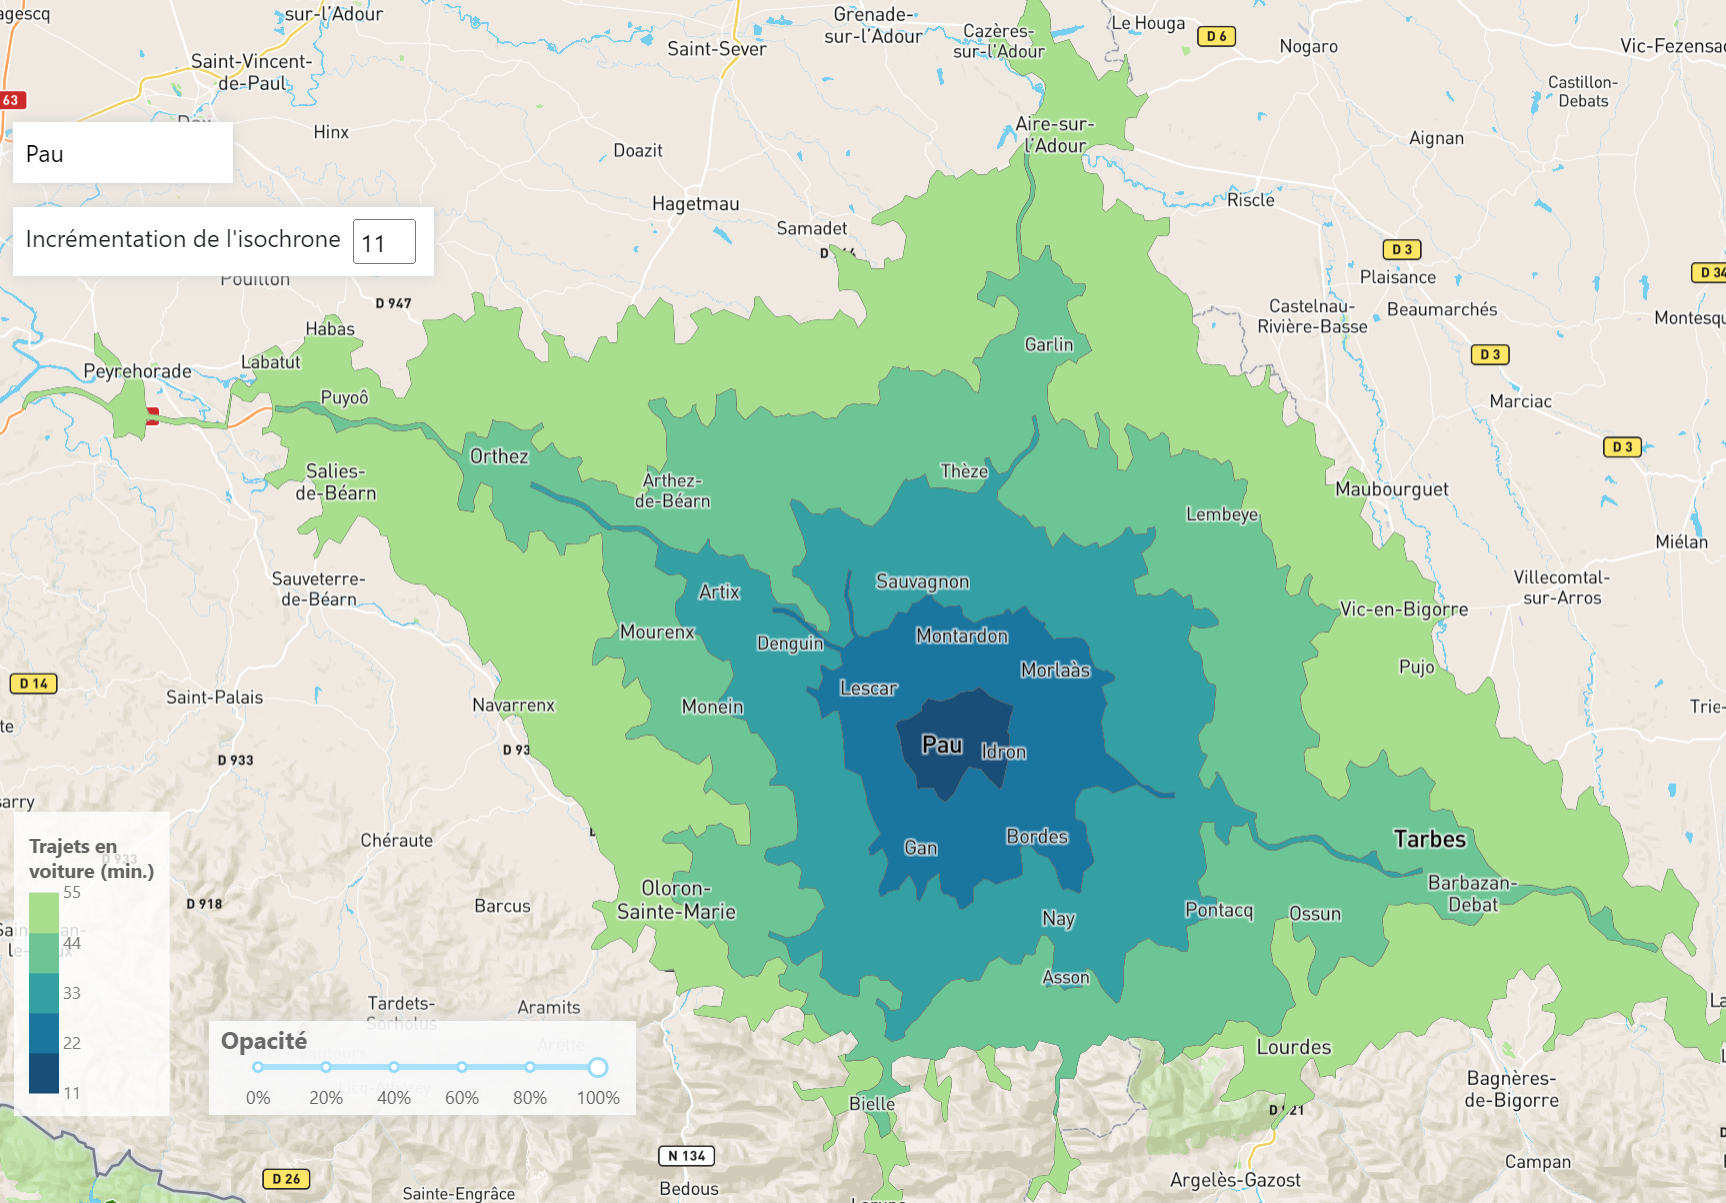
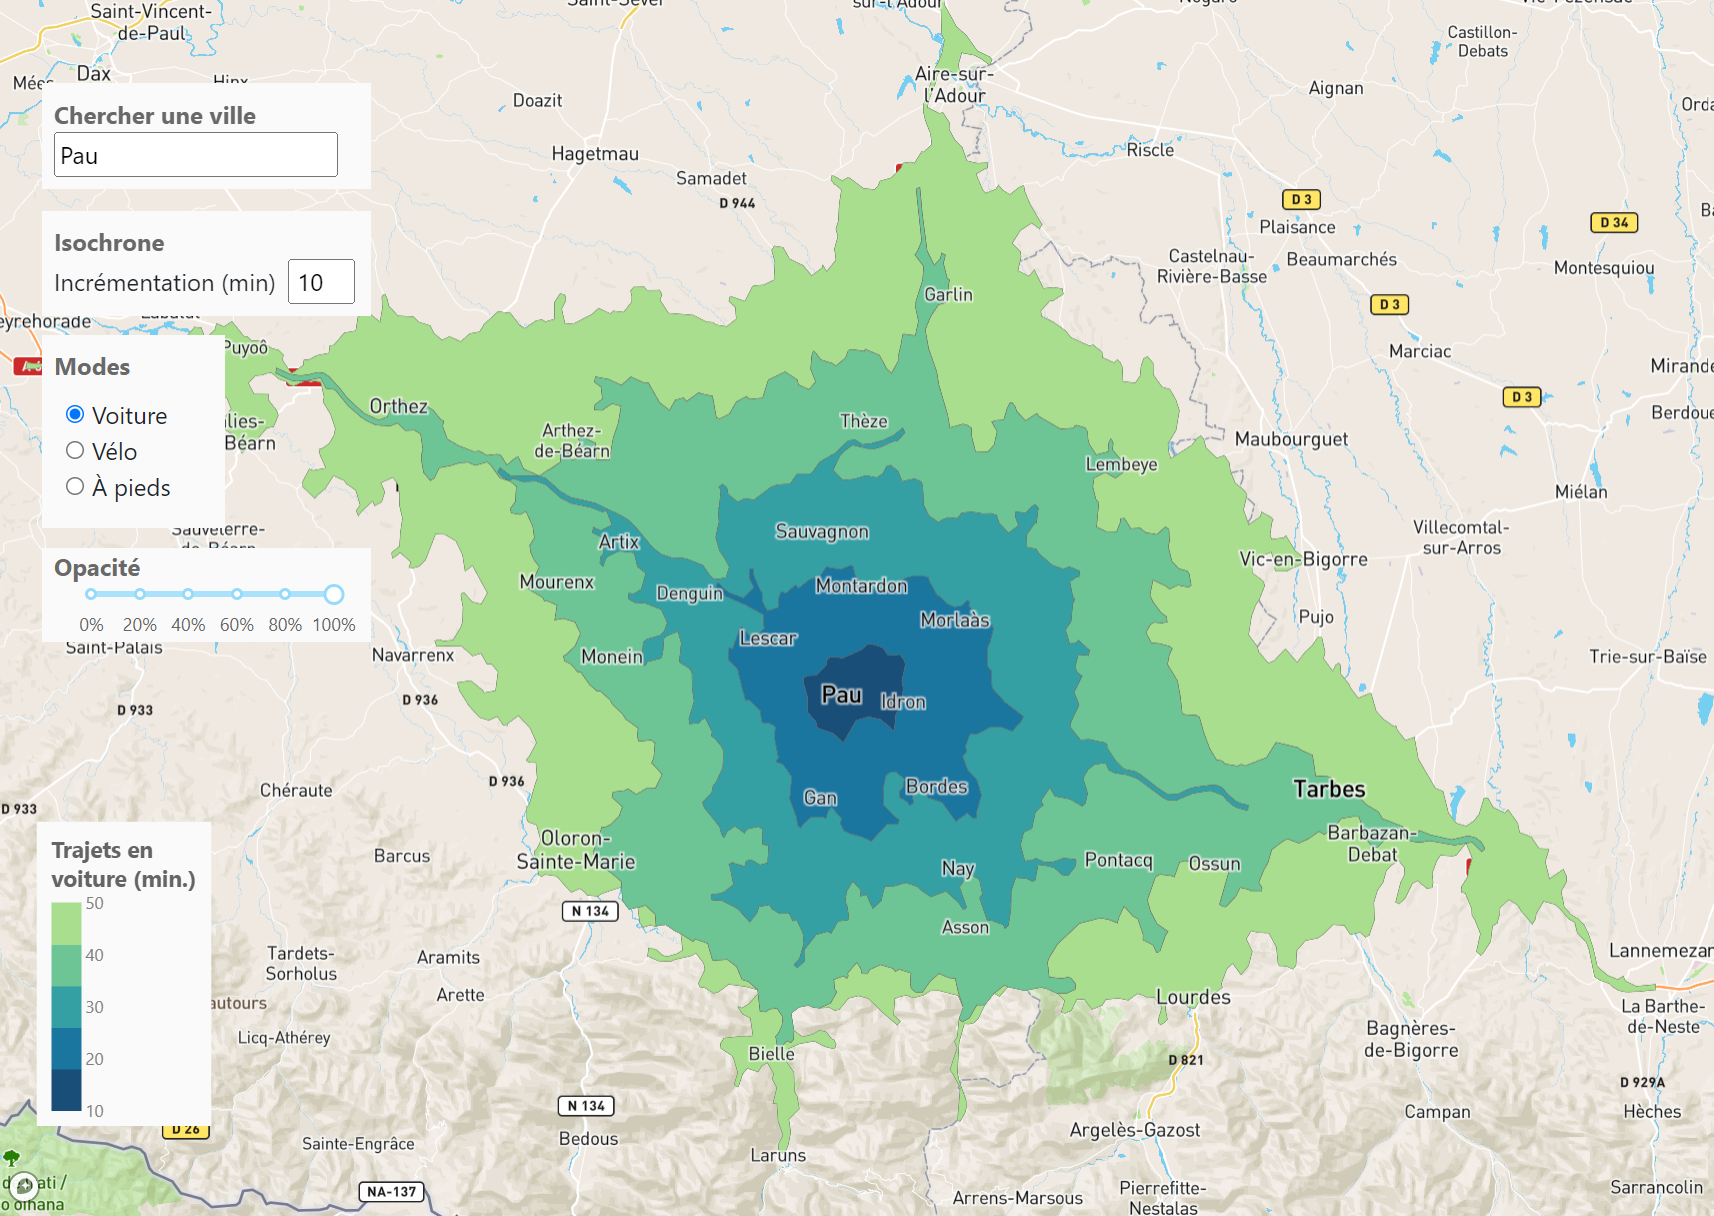
api+code

diff --git a/isoc.html b/isoc.html
@@ -130,52 +130,90 @@ from dash.dependencies import Input, Output
 app = dash.Dash(__name__, external_stylesheets=[dbc.themes.BOOTSTRAP,])
 server = app.server
 config = {"displayModeBar": False}
-loading_style = {'position': 'absolute', 'align-self': 'center'}
+loading_style = {'position': 'relative',"margin-left":"auto","margin-right":"auto","top":"50vh","z-index":"999"}
 
 app.layout = html.Div(
-    [
-dcc.Input(
+    [html.Div([dcc.Loading(
+                    id="loading",
+                    type="default",
+        parent_style=loading_style,
+                ),html.Div([html.Label("Chercher une ville", style={"font-weight":"bold","color": "dimgrey","width":"20vh"}
+                ),
+        dcc.Input(
             id="input1",
             type="text",
-            placeholder="Chercher une ville",
             value="Pau",
             debounce=True,
-            style={
+
+        )],style={
                 "border": "0px solid rgba(255,255,255,1)",
-                "filter": "drop-shadow(0 0 5px rgb(190, 190,190))",
                 "background-color": "rgba(250,250,250,1)",
                 "z-index": "999",
-                "width": "18vh",
+                "width": "27vh",
                 "position": "relative",
                 "top": "7vh",
-                "left": "12vh",
-                "padding":"1vh"
+                "left": "4vh",
+                "padding": "1vh",
+            },),
+        html.Div(
+            [
+                html.Label(
+                    "Modes", style={"padding-right": "1vh","font-weight":"bold","color": "dimgrey"}
+                ),
+                dcc.RadioItems(
+                    id="input-radio-button",
+                    options=[
+                        {"label": " Voiture", "value": "driving-car"},
+                        {"label": " Vélo", "value": "cycling-regular"},
+                        {"label": " À pieds", "value": "foot-walking"},
+                    ],
+                    style={"padding": "1vh",},
+                    value="driving-car",
+                ),
+            ],
+            style={
+                "position": "relative",
+                "z-index": "999",
+                "background-color": "rgba(250,250,250,1)",
+                "top": "19vh",
+                "padding": "1vh",
+                "width": "15vh",
+                "left": "4vh",
             },
         ),
-        html.Div([html.Label("Incrémentation de l'isochrone",style={"padding-right":"1vh"}),dcc.Input(
-            id="inc",
-            type="number",
-            min=2,
-            max=11,
-            value=10,
-            debounce=True,
-            style={"width":"5.5vh","text-align":"center"}
-        ),
-        ],            style={
+        html.Div(
+            [html.Label("Isochrone",style={"padding-right": "1vh","font-weight":"bold","color": "dimgrey"}),html.Br(),
+                html.Label("Incrémentation (min)"),
+                dcc.Input(
+                    id="inc",
+                    type="number",
+                    min=2,
+                    max=11,
+                    value=10,
+                    debounce=True,
+                    style={
+                        "width": "5.5vh",
+                        "text-align": "center",
+                        "margin-left": "1vh",
+                    },
+                ),
+            ],
+            style={
                 "border": "0px solid rgba(255,255,255,1)",
-                "filter": "drop-shadow(0 0 5px rgb(190, 190,190))",
                 "background-color": "rgba(250,250,250,1)",
                 "z-index": "999",
-                "width": "34.5vh",
+                "width": "27vh",
                 "position": "relative",
-                "top": "9vh",
-                "left": "12vh",
-                "padding":"1vh",
-                "display":"flex"
-            }
+                "top": "-7vh",
+                "left": "4vh",
+                "padding": "1vh",
+            },
         ),
         html.Div(
-            [html.Label("Opacité",style={"font-weight":"bold","color":"dimgrey"}),
+            [
+                html.Label(
+                    "Opacité", style={"font-weight": "bold", "color": "dimgrey"}
+                ),
                 dcc.Slider(
                     value=1,
                     step=0.2,
@@ -190,31 +228,34 @@ dcc.Input(
                         1: "100%",
                     },
                     id="op",
-                )
+                ),
             ],
             style={
                 "z-index": "999",
                 "position": "relative",
-                "top": "74vh",
-                "width": "35vh",
-                "left": "28vh",
+                "top": "12vh",
+                "width": "27vh",
+                "left": "4vh",
                 "background-color": "rgba(250,250,250,1)",
-                "filter": "drop-shadow(0 0 9px rgb(190, 190,190))",
                 "padding-left": "1vh",
-                
             },
-        ),html.Div([
-        dcc.Graph(
-            id="our_graph",
-            style={
-                "width": "100%",
-                "height": "100vh",
-                "position": "absolute",
-                "top": "0",
-                "left": "0",
-            },
-            config=config,
-        ),dcc.Loading(id='loading',type="default",style= {'position': 'relative', "left":"88.5vh","top":"31.5vh"},parent_style=loading_style)]),
+        )]),
+        html.Div(
+            [
+                dcc.Graph(
+                    id="our_graph",
+                    style={
+                        "width": "100%",
+                        "height": "100vh",
+                        "position": "absolute",
+                        "top": "0",
+                        "left": "0",
+                    },
+                    config=config,
+                ),
+
+            ]
+        ),
     ]
 )
 
@@ -226,10 +267,11 @@ dcc.Input(
         Input(component_id="input1", component_property="value"),
         Input(component_id="op", component_property="value"),
         Input(component_id="inc", component_property="value"),
+        Input(component_id="input-radio-button", component_property="value"),
     ],
 )
 
-def iso(input1,op,inc):
+def iso(input1,op,inc,mode):
         new_loading_style = loading_style
         nom = input1
         geolocator = Nominatim(user_agent="myapplication")
@@ -248,7 +290,7 @@ def iso(input1,op,inc):
         'Authorization': '5b3ce3597851110001cf6248df22650771d94c06a73d6fb78ba4706b',
         'Content-Type': 'application/json; charset=utf-8'
         }
-        call = requests.post('https://api.openrouteservice.org/v2/isochrones/driving-car', json=body, headers=headers)
+        call = requests.post(f'https://api.openrouteservice.org/v2/isochrones/{mode}', json=body, headers=headers)
         call = call.json()
         gdf = gpd.GeoDataFrame.from_features(call["features"])
 
@@ -311,13 +353,13 @@ def iso(input1,op,inc):
             hoverinfo="none",
             colorbar_thickness=20,
             colorbar_y=0.2,
-            colorbar_x=0.068,
+            colorbar_x=0.02,
             colorbar_outlinewidth=0,
-            colorbar_bgcolor="rgba(255,255,255,0.8)",
+            colorbar_bgcolor="rgba(250,250,250,1)",
             colorbar_tickfont=dict(family=family, size=11, color="gray"),
             colorbar_title_side="top",
             colorbar_title_text="<b>Trajets en<br>voiture (min.)",
-            colorbar_title_font=dict(family=family, color="rgb(100,100,100)", size=13),
+            colorbar_title_font=dict(family=family, color="rgb(100,100,100)", size=15),
         )
         fig.update_layout(legend_itemdoubleclick=False)
         fig.update_layout(margin={"r": 0, "l": 0, "b": 0, "t": 0})

diff --git a/assets/css/mediumish.css b/assets/css/mediumish.css
@@ -181,7 +181,7 @@ pre code {
 
 	height: 70vh;
 	border-radius: 5px;
-	filter: drop-shadow(0 0 5px rgb(218, 218, 218));
+	filter: drop-shadow(0 0 5px rgb(230, 230,230));
 	}
 pre code::-webkit-scrollbar {
 	width: 20px;
